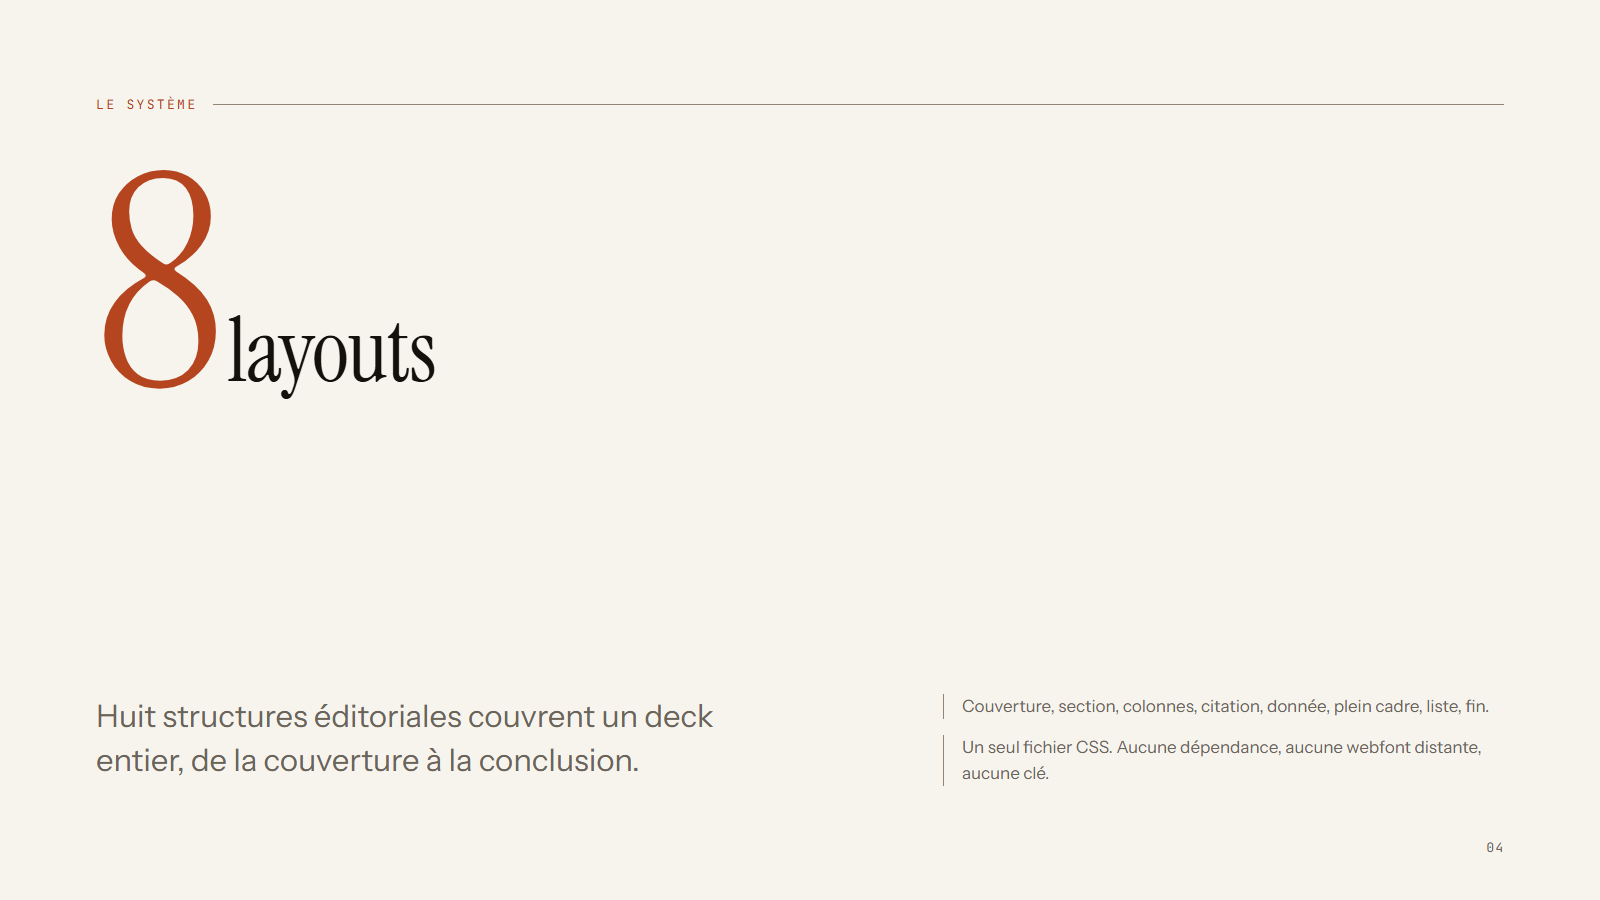
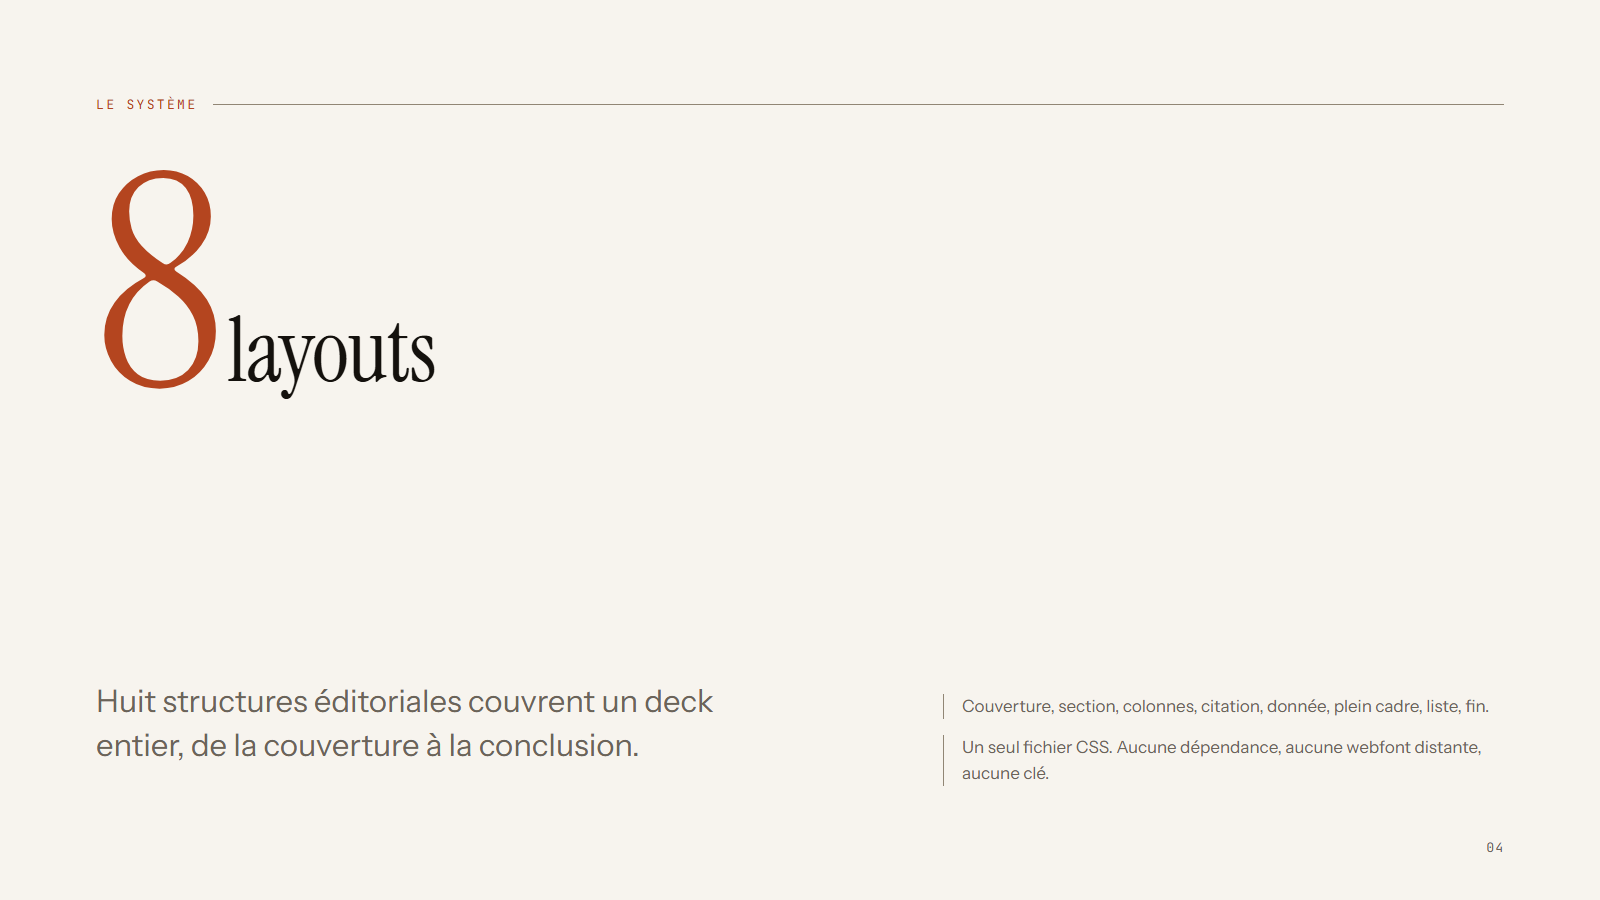
Review pass 3: quote mark hanging, kicker z-index on full-bleed, labelled CTAs, French demo panels, version stamp

Changed region(s): [[0.0625, 0.7467, 0.4688, 0.8711]]

diff --git a/assets/deck.css b/assets/deck.css
@@ -82,6 +82,7 @@ html, body {
 /* kicker : hors flux, toujours en haut */
 .kicker {
   position: absolute;
+  z-index: 3;
   top: var(--pad);
   left: var(--pad);
   right: var(--pad);
@@ -253,10 +254,16 @@ em { font-style: italic; color: var(--accent); }
   font-size: 12.5px; line-height: 1.6; color: var(--muted);
   margin-top: 16px; max-width: 30ch;
 }
-.mini--after .acc {
-  position: absolute; left: 20px; bottom: 18px; width: 64px; height: 2px;
-  background: var(--accent);
+.mini--after .stats {
+  position: absolute; left: 20px; right: 20px; bottom: 16px;
+  display: flex; gap: 26px;
+  padding-top: 10px; border-top: 1px solid var(--rule);
 }
+.mini--after .stats b {
+  display: block; font-family: var(--serif); font-weight: 400;
+  font-size: 22px; line-height: 1.1; color: var(--ink);
+}
+.mini--after .stats span { font-size: 9.5px; letter-spacing: .04em; color: var(--muted); }
 .slide--two-col .col p + p { margin-top: 18px; }
 
 /* ---------- 4. citation ---------- */
@@ -272,10 +279,11 @@ em { font-style: italic; color: var(--accent); }
 .slide--quote blockquote::before {
   content: "\201C";
   display: block;
-  font-size: 132px;
-  line-height: .55;
+  font-size: 108px;
+  line-height: .72;
   color: var(--accent);
-  margin-bottom: 34px;
+  margin-bottom: 4px;
+  margin-left: -0.05em;
 }
 .slide--quote .attrib {
   margin-top: 48px;
@@ -315,7 +323,7 @@ em { font-style: italic; color: var(--accent); }
   display: grid;
   grid-template-columns: 1.15fr .85fr;
   gap: 88px;
-  align-items: start;
+  align-items: baseline;
   margin-top: auto;
   padding-bottom: 18px;
 }
@@ -381,20 +389,34 @@ em { font-style: italic; color: var(--accent); }
 
 /* ---------- 8. fin ---------- */
 .slide--end { justify-content: flex-end; }
+.slide--end .version {
+  position: absolute;
+  top: var(--pad);
+  right: var(--pad);
+  font-family: var(--mono);
+  font-size: 13px;
+  letter-spacing: .1em;
+  color: var(--muted);
+}
 .slide--end .display { max-width: 11em; }
 .slide--end .contact {
   margin-top: 44px;
   padding-top: 26px;
   border-top: 1px solid var(--rule);
   display: flex;
-  align-items: baseline;
-  gap: 64px;
+  gap: 88px;
   font-family: var(--mono);
-  font-size: 26px;
-  color: var(--ink);
 }
-.slide--end .contact .cmd { color: var(--accent); }
-.slide--end .contact .url { font-size: 17px; color: var(--muted); }
+.slide--end .cta { display: grid; gap: 8px; }
+.slide--end .cta .label {
+  font-family: var(--mono);
+  font-size: 12px;
+  letter-spacing: .18em;
+  text-transform: uppercase;
+  color: var(--muted);
+}
+.slide--end .cta .cmd { font-size: 27px; color: var(--accent); }
+.slide--end .cta .url { font-size: 19px; color: var(--muted); }
 
 /* ---------- accessibilité ---------- */
 .sr-only {

diff --git a/examples/pitch/06.html b/examples/pitch/06.html
@@ -6,24 +6,28 @@
       <h3>Généré par défaut</h3>
       <div class="mini mini--before">
         <div class="bar"></div>
-        <span class="badge">Q4 2026</span>
-        <div class="t">&#128640; Driving Growth</div>
+        <span class="badge">T4 2026</span>
+        <div class="t">&#128640; Croissance par l&rsquo;innovation</div>
         <ul>
-          <li>&#9989; Revenue up 23% year over year</li>
-          <li>&#9989; Acquisition cost down</li>
-          <li>&#9989; Three new regions</li>
-          <li>&#9989; Team of 42 people</li>
+          <li>&#9989; Revenus en hausse de 23%</li>
+          <li>&#9989; Coût d&rsquo;acquisition en baisse</li>
+          <li>&#9989; Trois nouvelles régions</li>
+          <li>&#9989; Équipe de 42 personnes</li>
         </ul>
-        <p class="txt">Our data-driven approach has enabled us to unlock significant value across the organization.</p>
+        <p class="txt">Notre approche data-driven a permis de débloquer une valeur significative pour l&rsquo;organisation.</p>
       </div>
     </div>
     <div class="col col--win">
       <h3>Avec Deckhand</h3>
       <div class="mini mini--after">
-        <div class="k">Q4 2026</div>
-        <h4>Growth through<br>innovation.</h4>
-        <p class="txt">Revenue up 23%. Acquisition cost down. Three new regions. Team of 42.</p>
-        <div class="acc"></div>
+        <div class="k">T4 2026</div>
+        <h4>Croissance par<br>l&rsquo;innovation.</h4>
+        <p class="txt">Revenus +23&nbsp;%. Coût d&rsquo;acquisition en baisse. Trois régions ouvertes.</p>
+        <div class="stats">
+          <span><b>23&nbsp;%</b>revenus</span>
+          <span><b>42</b>personnes</span>
+          <span><b>3</b>régions</span>
+        </div>
       </div>
     </div>
   </div>

diff --git a/examples/pitch/08.html b/examples/pitch/08.html
@@ -1,8 +1,15 @@
 <section class="slide slide--end theme-ink" data-n="08">
   <div class="kicker">Deckhand</div>
+  <div class="version">v0.1.0 &middot; MIT</div>
   <h1 class="display">Installez&#8209;le.</h1>
   <div class="contact">
-    <span class="cmd">npx github:iruzen-dono/deckhand build</span>
-    <span class="url">github.com/iruzen-dono/deckhand</span>
+    <div class="cta">
+      <span class="label">Installer</span>
+      <span class="cmd">npx github:iruzen-dono/deckhand build</span>
+    </div>
+    <div class="cta">
+      <span class="label">Source</span>
+      <span class="url">github.com/iruzen-dono/deckhand</span>
+    </div>
   </div>
 </section>

diff --git a/examples/pitch/07.html b/examples/pitch/07.html
@@ -1,7 +1,8 @@
-<section class="slide slide--full" data-n="07">
+<section class="slide slide--full theme-ink" data-n="07">
+  <div class="kicker">Interlude</div>
   <div class="media" style="background-image:url('plate.svg')"></div>
   <div class="caption">
     <h2 class="h2">Le vide n&rsquo;est pas un manque.</h2>
-    <p>C&rsquo;est la respiration du propos. Une slide qui respire se lit ; une slide saturée s&rsquo;endure.</p>
+    <p>C&rsquo;est la respiration du propos. Une slide qui respire se lit ; une slide saturée s&rsquo;épuise.</p>
   </div>
 </section>
